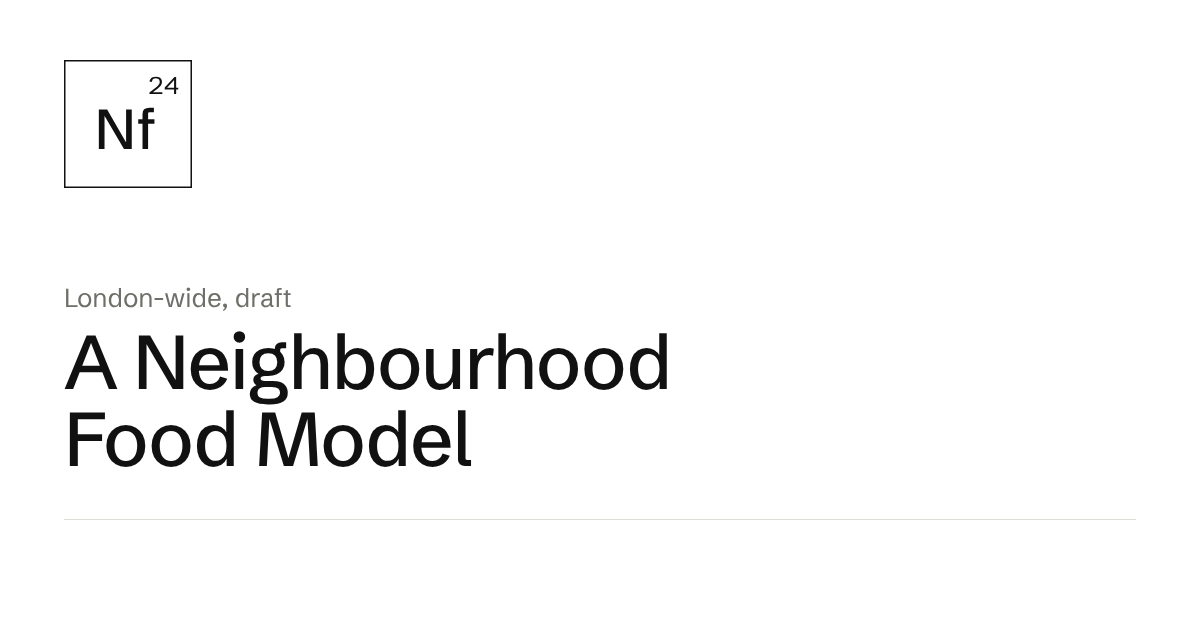
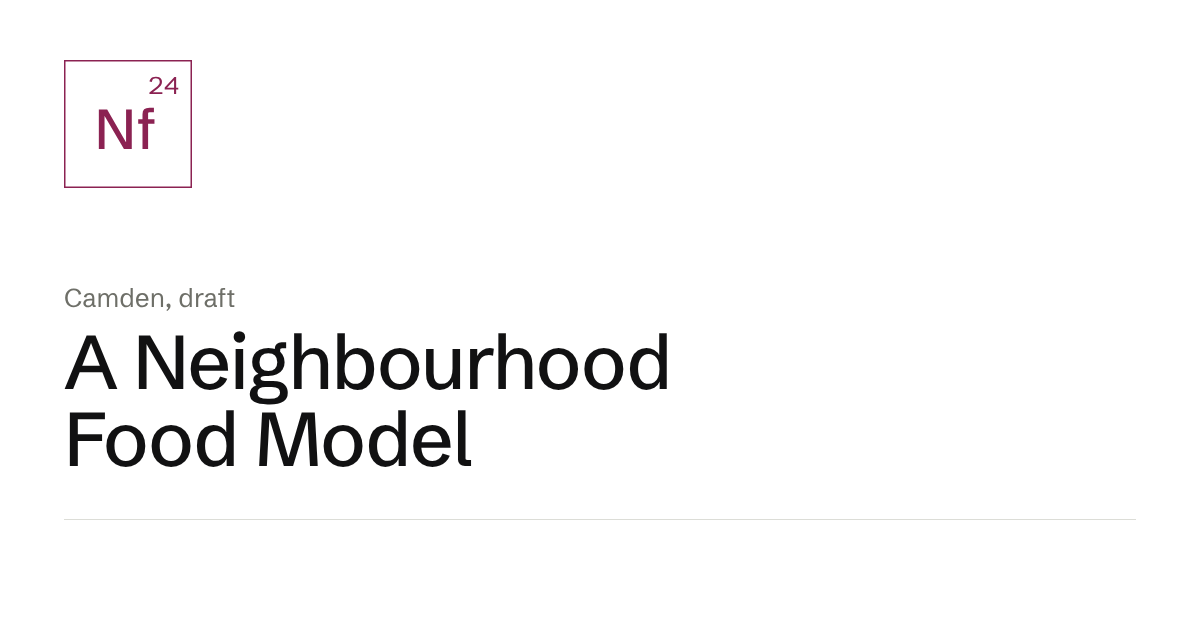
Refocus Neighbourhood Food Model page on Camden and Kilburn
Reframe the page around the work we now need to coordinate in
Camden: Ali's own neighbourhood/borough/system shape for the food
mission's next focus, with Kilburn High Road as the first of
Camden's five neighbourhoods to test it in. The four jobs (diverse
food cultures, keeping wealth local, community-led enterprise and
better-paid jobs, bringing people together) stay, now read against
Kilburn rather than as a standalone account of Walworth.

Claude-Session: https://claude.ai/code/session_01Qav7maXNPuh2bSZKtfst4Z

diff --git a/neighbourhood-food-model.html b/neighbourhood-food-model.html
@@ -127,7 +127,7 @@
   footer.page-footer .credit{font-size:14px; line-height:1.55; color:var(--fai-ink-3); margin-top:32px; border-top:1px solid var(--fai-rule); padding-top:20px; max-width:none;}
 </style>
 <!-- fai:head -->
-<meta name="description" content="Lessons from the Walworth Neighbourhood Food Model, Southwark: four jobs a neighbourhood food system has to do, and what it takes to build one.">
+<meta name="description" content="Camden&#x27;s next food mission focus, resilience at the neighbourhood level, starting with Kilburn: four jobs a neighbourhood has to do, tested against Walworth.">
 <link rel="canonical" href="https://food.darkmatterlabs.org/neighbourhood-food-model.html">
 <meta name="theme-color" content="#111112">
 <meta property="og:type" content="article">
@@ -135,14 +135,14 @@
 <meta property="og:locale" content="en_GB">
 <meta property="og:url" content="https://food.darkmatterlabs.org/neighbourhood-food-model.html">
 <meta property="og:title" content="A Neighbourhood Food Model">
-<meta property="og:description" content="Lessons from the Walworth Neighbourhood Food Model, Southwark: four jobs a neighbourhood food system has to do, and what it takes to build one.">
+<meta property="og:description" content="Camden&#x27;s next food mission focus, resilience at the neighbourhood level, starting with Kilburn: four jobs a neighbourhood has to do, tested against Walworth.">
 <meta property="og:image" content="https://food.darkmatterlabs.org/assets/fai/social/neighbourhood-food-model.png">
 <meta property="og:image:width" content="1200">
 <meta property="og:image:height" content="630">
 <meta property="og:image:alt" content="A Neighbourhood Food Model. Food as Infrastructure, Dark Matter Labs.">
 <meta name="twitter:card" content="summary_large_image">
 <meta name="twitter:title" content="A Neighbourhood Food Model">
-<meta name="twitter:description" content="Lessons from the Walworth Neighbourhood Food Model, Southwark: four jobs a neighbourhood food system has to do, and what it takes to build one.">
+<meta name="twitter:description" content="Camden&#x27;s next food mission focus, resilience at the neighbourhood level, starting with Kilburn: four jobs a neighbourhood has to do, tested against Walworth.">
 <meta name="twitter:image" content="https://food.darkmatterlabs.org/assets/fai/social/neighbourhood-food-model.png">
 <meta name="twitter:image:alt" content="A Neighbourhood Food Model. Food as Infrastructure, Dark Matter Labs.">
 <link rel="icon" href="assets/fai/favicon.svg" type="image/svg+xml">
@@ -159,7 +159,7 @@
     <a class="fai-bar__dm" href="https://darkmatterlabs.org/"><img class="fai-bar__lockup" src="assets/brand/dm-logo-v1-white.svg" alt="Dark Matter Labs" width="102" height="20"><img class="fai-bar__stamp" src="assets/brand/dm-stamp-white.svg" alt="Dark Matter Labs" width="20" height="20"></a>
     <span class="fai-bar__sep" aria-hidden="true"></span>
     <a class="fai-bar__mission" href="index.html">Food as Infrastructure</a>
-    <span class="fai-bar__here"><span class="fai-el fai-el--draft" aria-hidden="true"><b>Nf</b><i>24</i></span><span>Neighbourhood Food Model</span></span>
+    <span class="fai-bar__here"><span class="fai-el fai-el--camden fai-el--draft" aria-hidden="true"><b>Nf</b><i>24</i></span><span>Neighbourhood Food Model</span></span>
     <a class="fai-bar__xco" href="https://optionality.darkmatterlabs.org/" target="_blank" rel="noopener" title="Dark Matter Labs' Expanding Civilizational Optionality portfolio">xCO portfolio<span aria-hidden="true"> ↗</span></a>
     <div class="fai-bar__links" role="navigation" aria-label="Site"><a href="index.html">Portfolio</a><a href="library.html">Library</a></div>
   </div>
@@ -170,16 +170,16 @@
   <div class="nav-inner">
     <div class="nav-mark">
       <strong>A Neighbourhood Food Model</strong>
-      <span>Lessons for our own neighbourhood-scale work</span>
+      <span>Coordinating Camden's food mission, neighbourhood by neighbourhood</span>
     </div>
     <nav class="nav-links">
-      <a href="#why">Why the neighbourhood</a>
+      <a href="#shape">Camden's own shape</a>
+      <a href="#kilburn">Kilburn first</a>
       <a href="#culture">Diverse food cultures</a>
       <a href="#wealth">Keep wealth local</a>
       <a href="#enterprise">Enterprise and jobs</a>
       <a href="#together">Bring people together</a>
-      <a href="#model">How it's built</a>
-      <a href="#here">Our own work</a>
+      <a href="#checklist">Before calling it done</a>
     </nav>
   </div>
 </header>
@@ -187,7 +187,7 @@
 <div class="status-strip">
   <div class="wrap">
     <div class="status-note">
-      <p><strong>Draft. A synthesis of the Walworth Neighbourhood Food Model, built by Pembroke House with the Southwark Food Action Alliance, for our own neighbourhood-scale work.</strong> Drawn from Pembroke House's own public pages and the Southwark Food Action Alliance's 2021 report for Sustain's Food Power programme. This page's own author could not reach the model's website directly to check it line by line, so treat the figures here as reported, not independently verified against the primary source.</p>
+      <p><strong>Draft. Camden's own next focus for its food mission: resilience at the neighbourhood level, starting with Kilburn High Road.</strong> Camden's shape for this is still being worked through, not yet a fixed strategy, so treat it as live thinking rather than settled policy. Tested here against lessons already learned in the Walworth Neighbourhood Food Model, built by Pembroke House with the Southwark Food Action Alliance: reported from their own public pages and a 2021 report for Sustain's Food Power programme, not independently verified against the primary source.</p>
       <span class="status-date">Working note, October 2026</span>
     </div>
   </div>
@@ -197,26 +197,52 @@
 
   <section class="hero">
     <div class="wrap">
-      <div class="lot-number">A Neighbourhood Food Model, drawn from Walworth, Southwark</div>
-      <h1>Four jobs a neighbourhood food system has to do.</h1>
-      <p class="lede">A borough sets policy and a hub moves volume, but the neighbourhood is where people actually spend, cook and eat. Pembroke House built an explicit model for doing this well in Walworth. This page pulls out what transfers to our own neighbourhood-scale work.</p>
+      <div class="lot-number">A Neighbourhood Food Model, Camden Food Mission</div>
+      <h1>Four jobs for a Camden neighbourhood, starting with Kilburn.</h1>
+      <p class="lede">Camden's food mission has a new focus: build resilience at the neighbourhood level, the way the NHS's own neighbourhood approach asks each local authority to. Camden has five neighbourhoods, and Kilburn High Road is where this starts. Here's what each one actually has to do, tested against a neighbourhood that's already a few years ahead: Walworth, Southwark.</p>
       <div class="cta-row">
-        <a class="btn primary" href="#culture">See the four jobs</a>
-        <a class="btn" href="https://www.neighbourhoodfoodmodel.org/" target="_blank" rel="noopener">Walworth Neighbourhood Food Model<span aria-hidden="true"> ↗</span></a>
+        <a class="btn primary" href="#shape">See Camden's own shape for this</a>
+        <a class="btn" href="kilburn-high-road.html">Open Kilburn High Road</a>
       </div>
     </div>
   </section>
 
-  <section id="why">
+  <section id="shape">
     <div class="wrap">
       <div class="section-head">
-        <div class="eyebrow">Below the borough, above the household</div>
-        <h2>Why the neighbourhood is where it gets real</h2>
-        <p class="sub">Walworth is a single neighbourhood in Southwark, population around 45,000. Pembroke House, a local charity, didn't wait for a borough-wide strategy to name what a good food system there would actually require. It named four jobs the system has to do, and started building test sites for each one.</p>
+        <div class="eyebrow">Neighbourhood, borough, system</div>
+        <h2>Camden's own shape for this</h2>
+        <p class="sub">Not DML's framework. Camden's own, set out directly, still being worked through rather than signed off, which is exactly why it belongs here in the open rather than locked in a single document.</p>
+      </div>
+      <div class="tie-grid">
+        <div class="tie-card">
+          <h4>Neighbourhood (Camden has five)</h4>
+          <p>Local partners, local physical and relational infrastructure, growing space, kitchens, local knowledge brought together, strengths and gaps identified, a food offer designed for that neighbourhood specifically.</p>
+        </div>
+        <div class="tie-card">
+          <h4>Borough</h4>
+          <p>The food hub, enabling the neighbourhood infrastructure. Partner organisations, each holding expertise in one area, healthy eating, sustainability, affordability, setting minimum standards and backing locally led innovation.</p>
+        </div>
+        <div class="tie-card">
+          <h4>System</h4>
+          <p>The Food Partnership Steering Group as the glue holding the levels together.</p>
+        </div>
+      </div>
+      <div class="callout"><b>The North Star, five years out:</b> a food agenda that holds its own outside the council, protected from changing political priorities rather than reliant on any one administration.</div>
+    </div>
+  </section>
+
+  <section id="kilburn">
+    <div class="wrap">
+      <div class="section-head">
+        <div class="eyebrow">The first of five</div>
+        <h2>Why Kilburn goes first</h2>
+        <p class="sub">A model for the neighbourhood level means nothing until it's tried in one. Kilburn High Road is DML's own live attempt: working with the businesses and community organisations already on the high road, rather than starting from a blank page.</p>
       </div>
       <div class="prose">
-        <p>Everything below is Pembroke House's own framing of the Walworth Neighbourhood Food Model, reported here with the sources it's drawn from. Where it connects to our own neighbourhood work, in Kilburn and elsewhere, that's marked separately.</p>
+        <p>Whatever Kilburn's own food offer turns out to be, it doesn't need to be invented from scratch. A neighbourhood a few years further along, Walworth in Southwark, has already tested most of the ground: four jobs, lifted from Pembroke House's own Neighbourhood Food Model, worth testing against Kilburn and then each of Camden's other four neighbourhoods in turn.</p>
       </div>
+      <a class="btn" href="kilburn-high-road.html">Open Kilburn High Road</a>
     </div>
   </section>
 
@@ -230,7 +256,7 @@
       <div class="prose">
         <p>Pembroke House's Walworth Food Map set out to spotlight the people and initiatives behind the neighbourhood's own diverse food system: walking the length of Walworth Road logging food tied to different cultures, family traditions and the area's own history, from independent restaurants like the Colombian eatery Amigos to long-running stalls and shops. The long-term ambition for Pembroke House's planned site on Walworth Road is explicitly rooted in community engagement, economic empowerment and cultural preservation together, not as three separate goals.</p>
       </div>
-      <div class="callout"><b>What transfers:</b> map a neighbourhood's food culture before writing a strategy for it. The map is the asset, not a preamble to one.</div>
+      <div class="callout"><b>For Kilburn:</b> has anyone mapped Kilburn High Road's own food culture, street by street, the way Walworth did? The map is the asset, not a preamble to one.</div>
     </div>
   </section>
 
@@ -248,7 +274,7 @@
         <div class="stat"><b>£94m</b><span>Estimated annual food spend by Walworth residents, population around 45,000</span></div>
         <div class="stat"><b>1%</b><span>Redirected locally, would outspend every food-insecurity grant in the neighbourhood combined</span></div>
       </div>
-      <div class="callout"><b>What transfers:</b> this is the same logic behind collective buying at borough scale, aggregating demand so more of it lands with local and regenerative suppliers rather than leaking out through national supply chains. See the <a href="hubs-and-markets-working-group.html">Hubs &amp; Markets Working Group</a>.</div>
+      <div class="callout"><b>For Kilburn:</b> Kilburn's own version of this number doesn't exist yet. It's the first useful thing to go and find, before the borough-level food hub can aggregate anyone's demand. See the <a href="hubs-and-markets-working-group.html">Hubs &amp; Markets Working Group</a>.</div>
     </div>
   </section>
 
@@ -270,7 +296,7 @@
         </div>
         <div class="tie-card">
           <h4>A high-street site</h4>
-          <p>A planned community kitchen of around 2,626 sq ft at 182&ndash;202 Walworth Road, developed with Fabrix and given unanimous planning consent as part of the wider scheme: food infrastructure claiming prominent high-street space, not tucked round the back.</p>
+          <p>Walworth's planned community kitchen, around 2,626 sq ft at 182&ndash;202 Walworth Road, developed with Fabrix and given unanimous planning consent: food infrastructure claiming prominent high-street space, not tucked round the back. Kilburn High Road has the same kind of frontage going spare.</p>
         </div>
       </div>
     </div>
@@ -298,39 +324,16 @@
     </div>
   </section>
 
-  <section id="model">
+  <section id="borough-system">
     <div class="wrap">
       <div class="section-head">
         <div class="eyebrow">Whole system, not single project</div>
-        <h2>How the model actually gets built</h2>
-        <p class="sub">The Southwark Food Action Alliance, working through Sustain's Food Power programme, frames the model as a whole-system approach: production, distribution, preparation and consumption treated as inseparable from employment, housing and health outcomes, not run through one food project in isolation.</p>
+        <h2>How Kilburn connects to the borough and the system</h2>
+        <p class="sub">A neighbourhood food offer doesn't stand alone. It leans on a borough-wide hub and on partner organisations with real expertise, and it's held together by a partnership that can actually speak for the whole mission.</p>
       </div>
       <div class="prose">
-        <p>It's built through naming actual test sites to trial and learn, then feeding what works back up through local, borough and regional tiers rather than scaling a single pilot by assertion. Southwark's own Land Commission has since said the model should be resourced and replicated across the borough's other neighbourhoods, and Pembroke House has fed it directly into Southwark's Sustainable Food Strategy and Action Plan.</p>
+        <p>The food hub, the subject of our own <a href="hubs-and-markets-working-group.html">Hubs &amp; Markets Working Group</a>, is what lets Kilburn's own demand aggregate with everyone else's rather than sit alone. Partner organisations hold the expertise, healthy eating, sustainability, affordability, that a single neighbourhood group shouldn't have to build from zero. And the Food Partnership Steering Group is meant to be the glue: not one side holding power over the other, the same shared-authorship logic already running through our own <a href="camden-dml-governance.html">governance work</a> with Camden.</p>
       </div>
-      <div class="crossover">
-        <details>
-          <summary>Where this connects: the same ladder, one rung down</summary>
-          <div class="crossover-body">
-            <p>Local test site, borough strategy, regional replication is the same ladder our own Hubs &amp; Markets Working Group runs between boroughs and London-wide, just starting one rung lower, at the neighbourhood itself.</p>
-            <p>See the <a href="hubs-and-markets-working-group.html">Hubs &amp; Markets Working Group</a>.</p>
-          </div>
-        </details>
-      </div>
-    </div>
-  </section>
-
-  <section id="here">
-    <div class="wrap">
-      <div class="section-head">
-        <div class="eyebrow">Already underway, one street at a time</div>
-        <h2>What this means for our own neighbourhood work</h2>
-        <p class="sub">Camden's own Kilburn High Road proposal is already DML's live attempt at this exact scale: working with the businesses and organisations already on the high road, rather than starting from a blank page.</p>
-      </div>
-      <div class="prose">
-        <p>The four jobs above are a useful test for it, and for any neighbourhood work that follows: has anyone actually mapped what's there, is the wealth argument made in pounds rather than principle, is there an enterprise the model puts real money through, and is there a way in for people who aren't already in the room.</p>
-      </div>
-      <a class="btn" href="kilburn-high-road.html">Open Kilburn High Road</a>
     </div>
   </section>
 
@@ -338,15 +341,15 @@
     <div class="wrap">
       <div class="section-head">
         <div class="eyebrow">A working check, not a template</div>
-        <h2>Before calling it a neighbourhood food model</h2>
+        <h2>Before calling it done in Kilburn</h2>
       </div>
       <div class="checklist">
         <ul>
-          <li>Has anyone mapped the food culture already there, or are we assuming it?</li>
-          <li>Do we know how much residents already spend on food each year, and how much of it currently leaves the neighbourhood?</li>
-          <li>Is there at least one local enterprise or co-op this model would put real money through, not just serve?</li>
-          <li>Is there a recurring, low-friction way people actually meet over food, not just a steering group minute?</li>
-          <li>Is it one organisation claiming the work, or an alliance that others can join?</li>
+          <li>Has anyone mapped Kilburn's own food culture, street by street, or are we assuming it?</li>
+          <li>Do we know how much Kilburn residents already spend on food each year, and how much of it currently leaves the neighbourhood?</li>
+          <li>Is there at least one Kilburn enterprise or co-op this model would put real money through, not just serve?</li>
+          <li>Is there a recurring, low-friction way Kilburn residents actually meet over food, not just a steering group minute?</li>
+          <li>Does this plug into the borough hub and the Food Partnership, or sit alongside them?</li>
         </ul>
       </div>
     </div>
@@ -357,6 +360,7 @@
 <div class="wrap sources">
   <h3>Sources</h3>
   <ul>
+    <li>Camden Food Mission, its own neighbourhood-level focus, shared directly with Dark Matter Labs, October 2026. Still being worked through, not yet a fixed strategy.</li>
     <li>Pembroke House, "Neighbourhood" and "Walworth Neighbourhood Food Model" pages, pembrokehouse.org.uk</li>
     <li>Southwark Food Action Alliance, <em>Building Local Food Resilience Beyond Covid-19: Southwark</em>, for Sustain's Food Power programme, May 2021</li>
     <li>The Walworth Neighbourhood Food Model, <a href="https://www.neighbourhoodfoodmodel.org/" target="_blank" rel="noopener">neighbourhoodfoodmodel.org<span aria-hidden="true"> ↗</span></a></li>
@@ -367,24 +371,25 @@
   <div class="wrap">
     <div class="col col-about">
       <h4>A Neighbourhood Food Model</h4>
-      <p>Lessons from the Walworth Neighbourhood Food Model, Pembroke House and the Southwark Food Action Alliance, for our own neighbourhood-scale work. Part of Dark Matter Labs' Food as Infrastructure portfolio.</p>
+      <p>Camden's own next focus for its food mission, starting with Kilburn High Road, tested against lessons already learned in the Walworth Neighbourhood Food Model, Pembroke House and the Southwark Food Action Alliance. Part of Dark Matter Labs' Food as Infrastructure portfolio.</p>
     </div>
     <div class="col">
       <h4>This page</h4>
+      <a href="#shape">Camden's own shape</a>
+      <a href="#kilburn">Kilburn first</a>
       <a href="#culture">Diverse food cultures</a>
       <a href="#wealth">Keep wealth local</a>
-      <a href="#enterprise">Enterprise and jobs</a>
-      <a href="#together">Bring people together</a>
     </div>
     <div class="col">
       <h4>Wider portfolio</h4>
       <a href="hubs-and-markets-working-group.html">Hubs &amp; Markets Working Group</a>
       <a href="kilburn-high-road.html">Kilburn High Road</a>
+      <a href="camden-dml-governance.html">Governing for Transformation</a>
       <a href="index.html">Food as Infrastructure</a>
     </div>
   </div>
   <div class="wrap">
-    <div class="credit">Lessons drawn from the Walworth Neighbourhood Food Model, built by Pembroke House with the Southwark Food Action Alliance. Included here, with attribution, for our own working reference, not as a published Pembroke House position.<br><br>Parts of this page were drafted with AI assistance (Claude). Licensed CC BY-SA 4.0 — see the <a href="index.html">homepage</a> for full credit and lineage.</div>
+    <div class="credit">Camden's own neighbourhood-level focus is reported here as shared directly with Dark Matter Labs, not as a confirmed or published Camden Council position. The four jobs are drawn, with attribution, from the Walworth Neighbourhood Food Model, built by Pembroke House with the Southwark Food Action Alliance, not as a published Pembroke House position on Camden's work.<br><br>Parts of this page were drafted with AI assistance (Claude). Licensed CC BY-SA 4.0 — see the <a href="index.html">homepage</a> for full credit and lineage.</div>
   </div>
 </footer>
 

diff --git a/library.html b/library.html
@@ -225,7 +225,6 @@
         <a class="tile tile--draft" href="sovereign-food-system.html" aria-label="Draft. A Sovereign Food System"><i>4</i><b>Sv</b><span>Sovereign Food System</span></a>
         <a class="tile tile--draft" href="media-and-inspiration.html" aria-label="Draft. Media &amp; Inspiration"><i>13</i><b>Md</b><span>Media &amp; Inspiration</span></a>
         <a class="tile tile--draft" href="food-hubs-and-infrastructure.html" aria-label="Draft. Food Hubs and the Need for Infrastructure"><i>22</i><b>Fi</b><span>Food Hubs &amp; Infrastructure</span></a>
-        <a class="tile tile--draft" href="neighbourhood-food-model.html" aria-label="Draft. A Neighbourhood Food Model"><i>24</i><b>Nf</b><span>Neighbourhood Food Model</span></a>
       </div>
     </div>
     <div class="period">
@@ -240,6 +239,7 @@
         <a class="tile tile--camden tile--draft" href="camden-dml-governance.html" aria-label="Draft. Governing for Transformation"><i>19</i><b>Gv</b><span>Camden / DML Governance</span></a>
         <a class="tile tile--camden tile--draft" href="sweden-baltic-lessons-for-camden.html" aria-label="Draft. What Transfers to Camden"><i>20</i><b>Sb</b><span>What Transfers to Camden</span></a>
         <a class="tile tile--camden tile--draft" href="food-partnership-operating-options.html" aria-label="Draft. Options for How the Partnership Could Operate"><i>21</i><b>Fp</b><span>Food Partnership Operating Options</span></a>
+        <a class="tile tile--camden tile--draft" href="neighbourhood-food-model.html" aria-label="Draft. A Neighbourhood Food Model"><i>24</i><b>Nf</b><span>Neighbourhood Food Model</span></a>
       </div>
     </div>
     <div class="period">
@@ -416,14 +416,6 @@
           </div>
           <div class="entry__links"></div>
         </li>
-        <li class="entry">
-          <span class="fai-el fai-el--draft" style="--el-size:44px" aria-hidden="true"><b>Nf</b><i>24</i></span>
-          <div class="entry__body">
-            <h4><a href="neighbourhood-food-model.html">A Neighbourhood Food Model</a><span class="entry__draft">Draft</span></h4>
-            <p>Lessons from the Walworth Neighbourhood Food Model, Southwark: four jobs a neighbourhood food system has to do, and what it takes to build one.</p>
-          </div>
-          <div class="entry__links"></div>
-        </li>
       </ul>
     </section>
     <section class="group" id="camden" aria-labelledby="camden-h">
@@ -501,6 +493,14 @@
           <div class="entry__body">
             <h4><a href="food-partnership-operating-options.html">Options for How the Partnership Could Operate</a><span class="entry__draft">Draft</span></h4>
             <p>A reference guide for how the Camden Food Partnership could be hosted and legally structured as it matures, drawing on the Kauffman Foundation’s ecosystem playbook and the Sustainable Food Places network of over 100 UK food partnerships.</p>
+          </div>
+          <div class="entry__links"></div>
+        </li>
+        <li class="entry">
+          <span class="fai-el fai-el--camden fai-el--draft" style="--el-size:44px" aria-hidden="true"><b>Nf</b><i>24</i></span>
+          <div class="entry__body">
+            <h4><a href="neighbourhood-food-model.html">A Neighbourhood Food Model</a><span class="entry__draft">Draft</span></h4>
+            <p>Camden&#x27;s next food mission focus, resilience at the neighbourhood level, starting with Kilburn: four jobs a neighbourhood has to do, tested against Walworth.</p>
           </div>
           <div class="entry__links"></div>
         </li>
